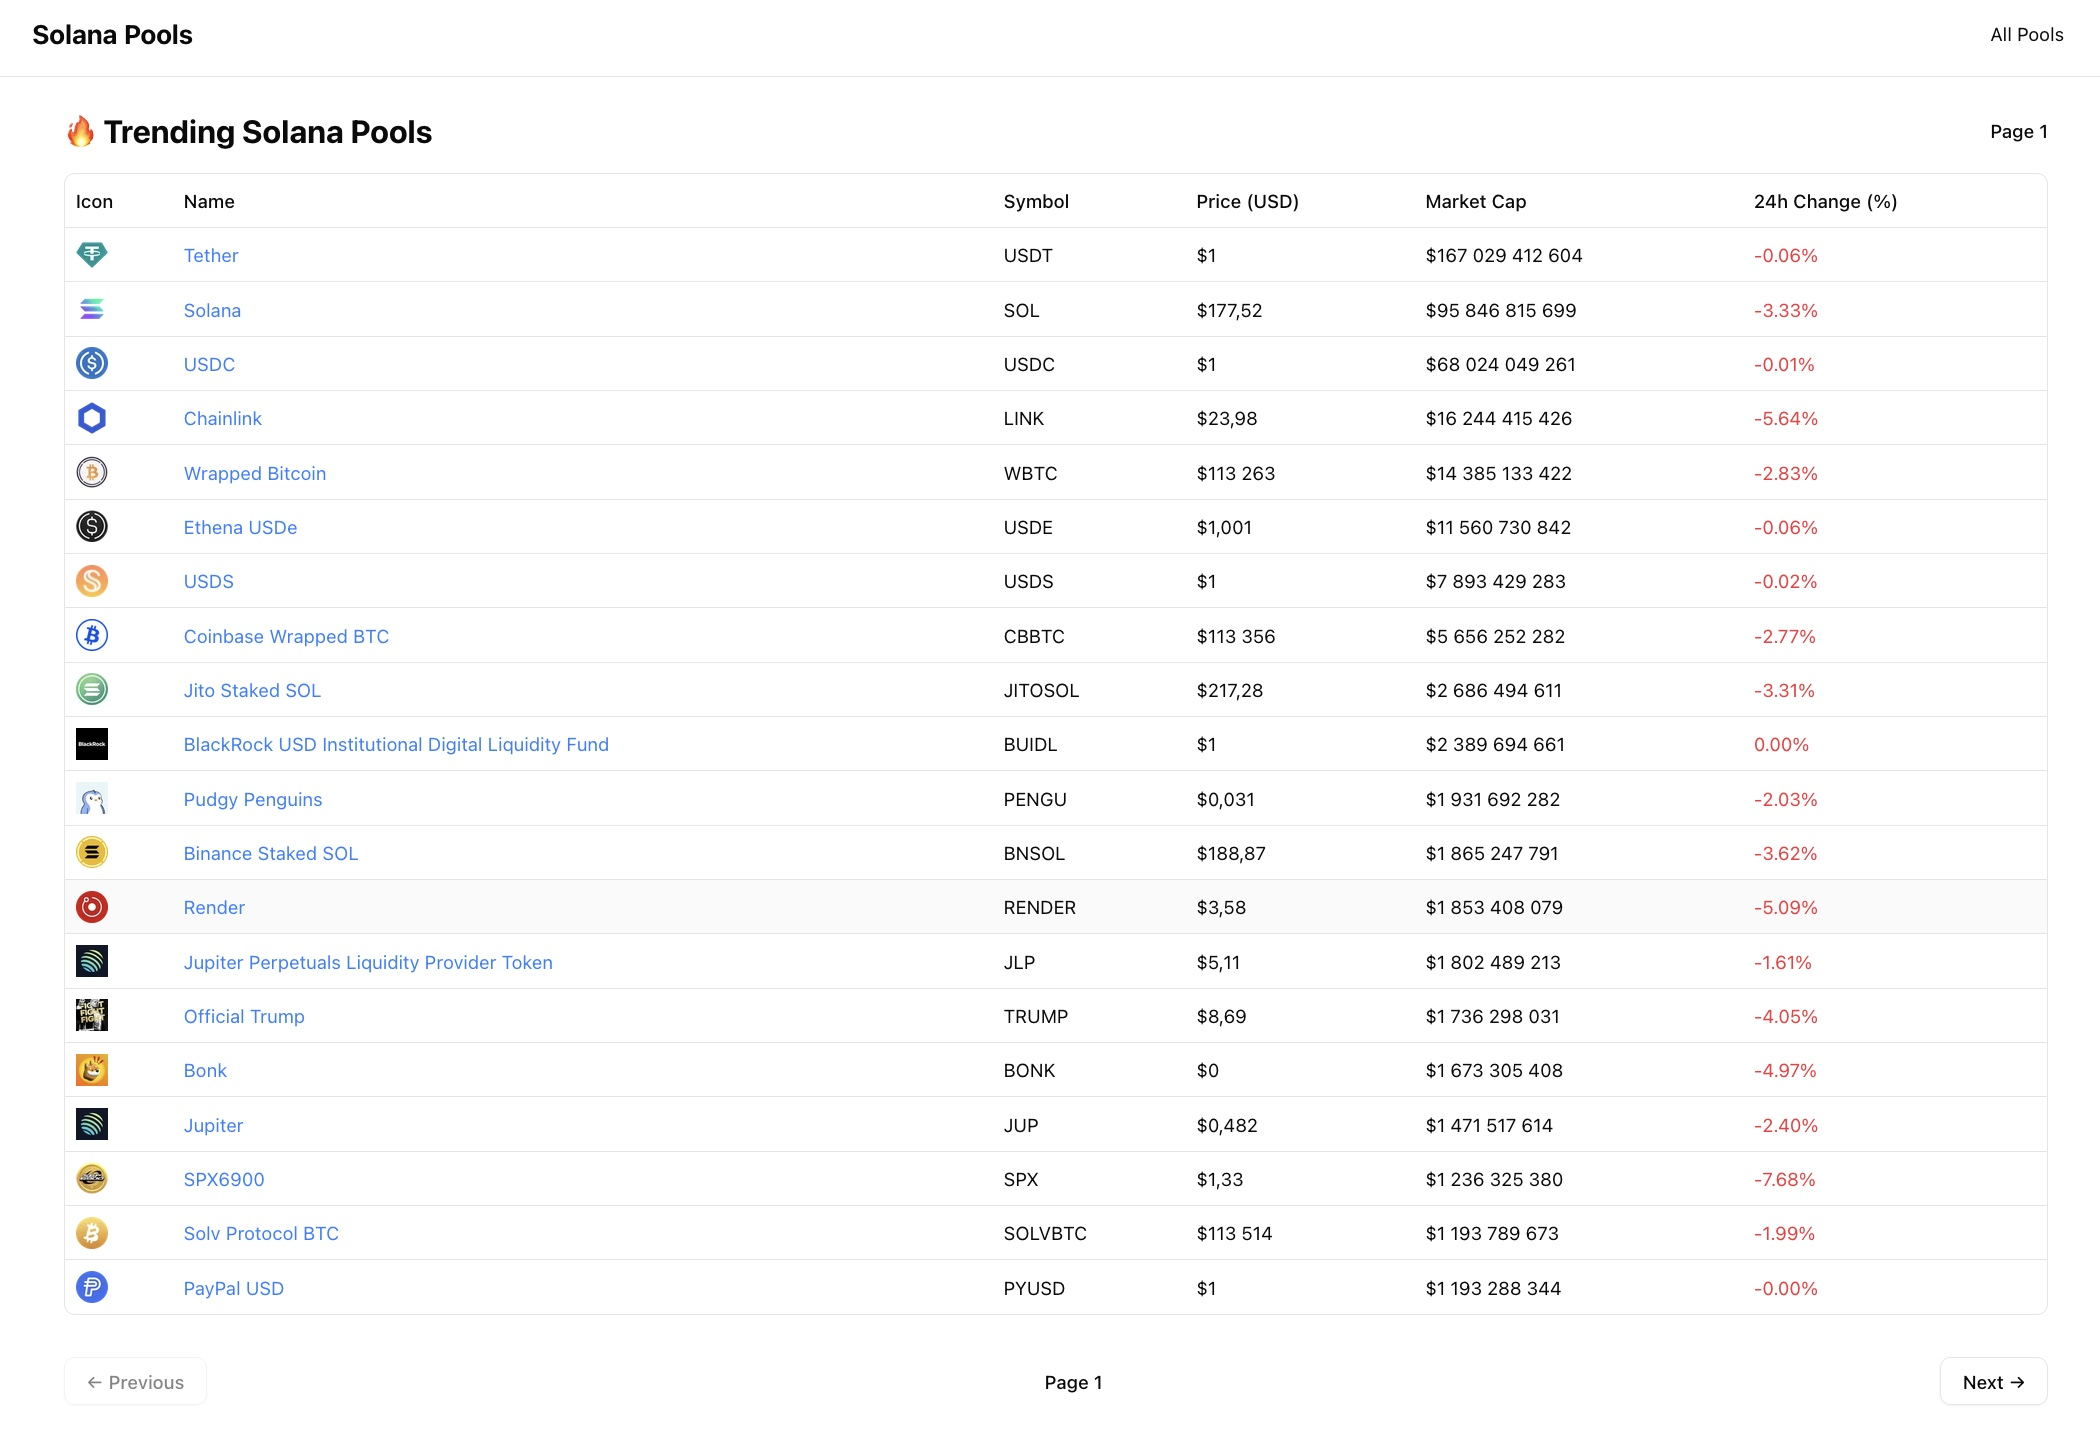
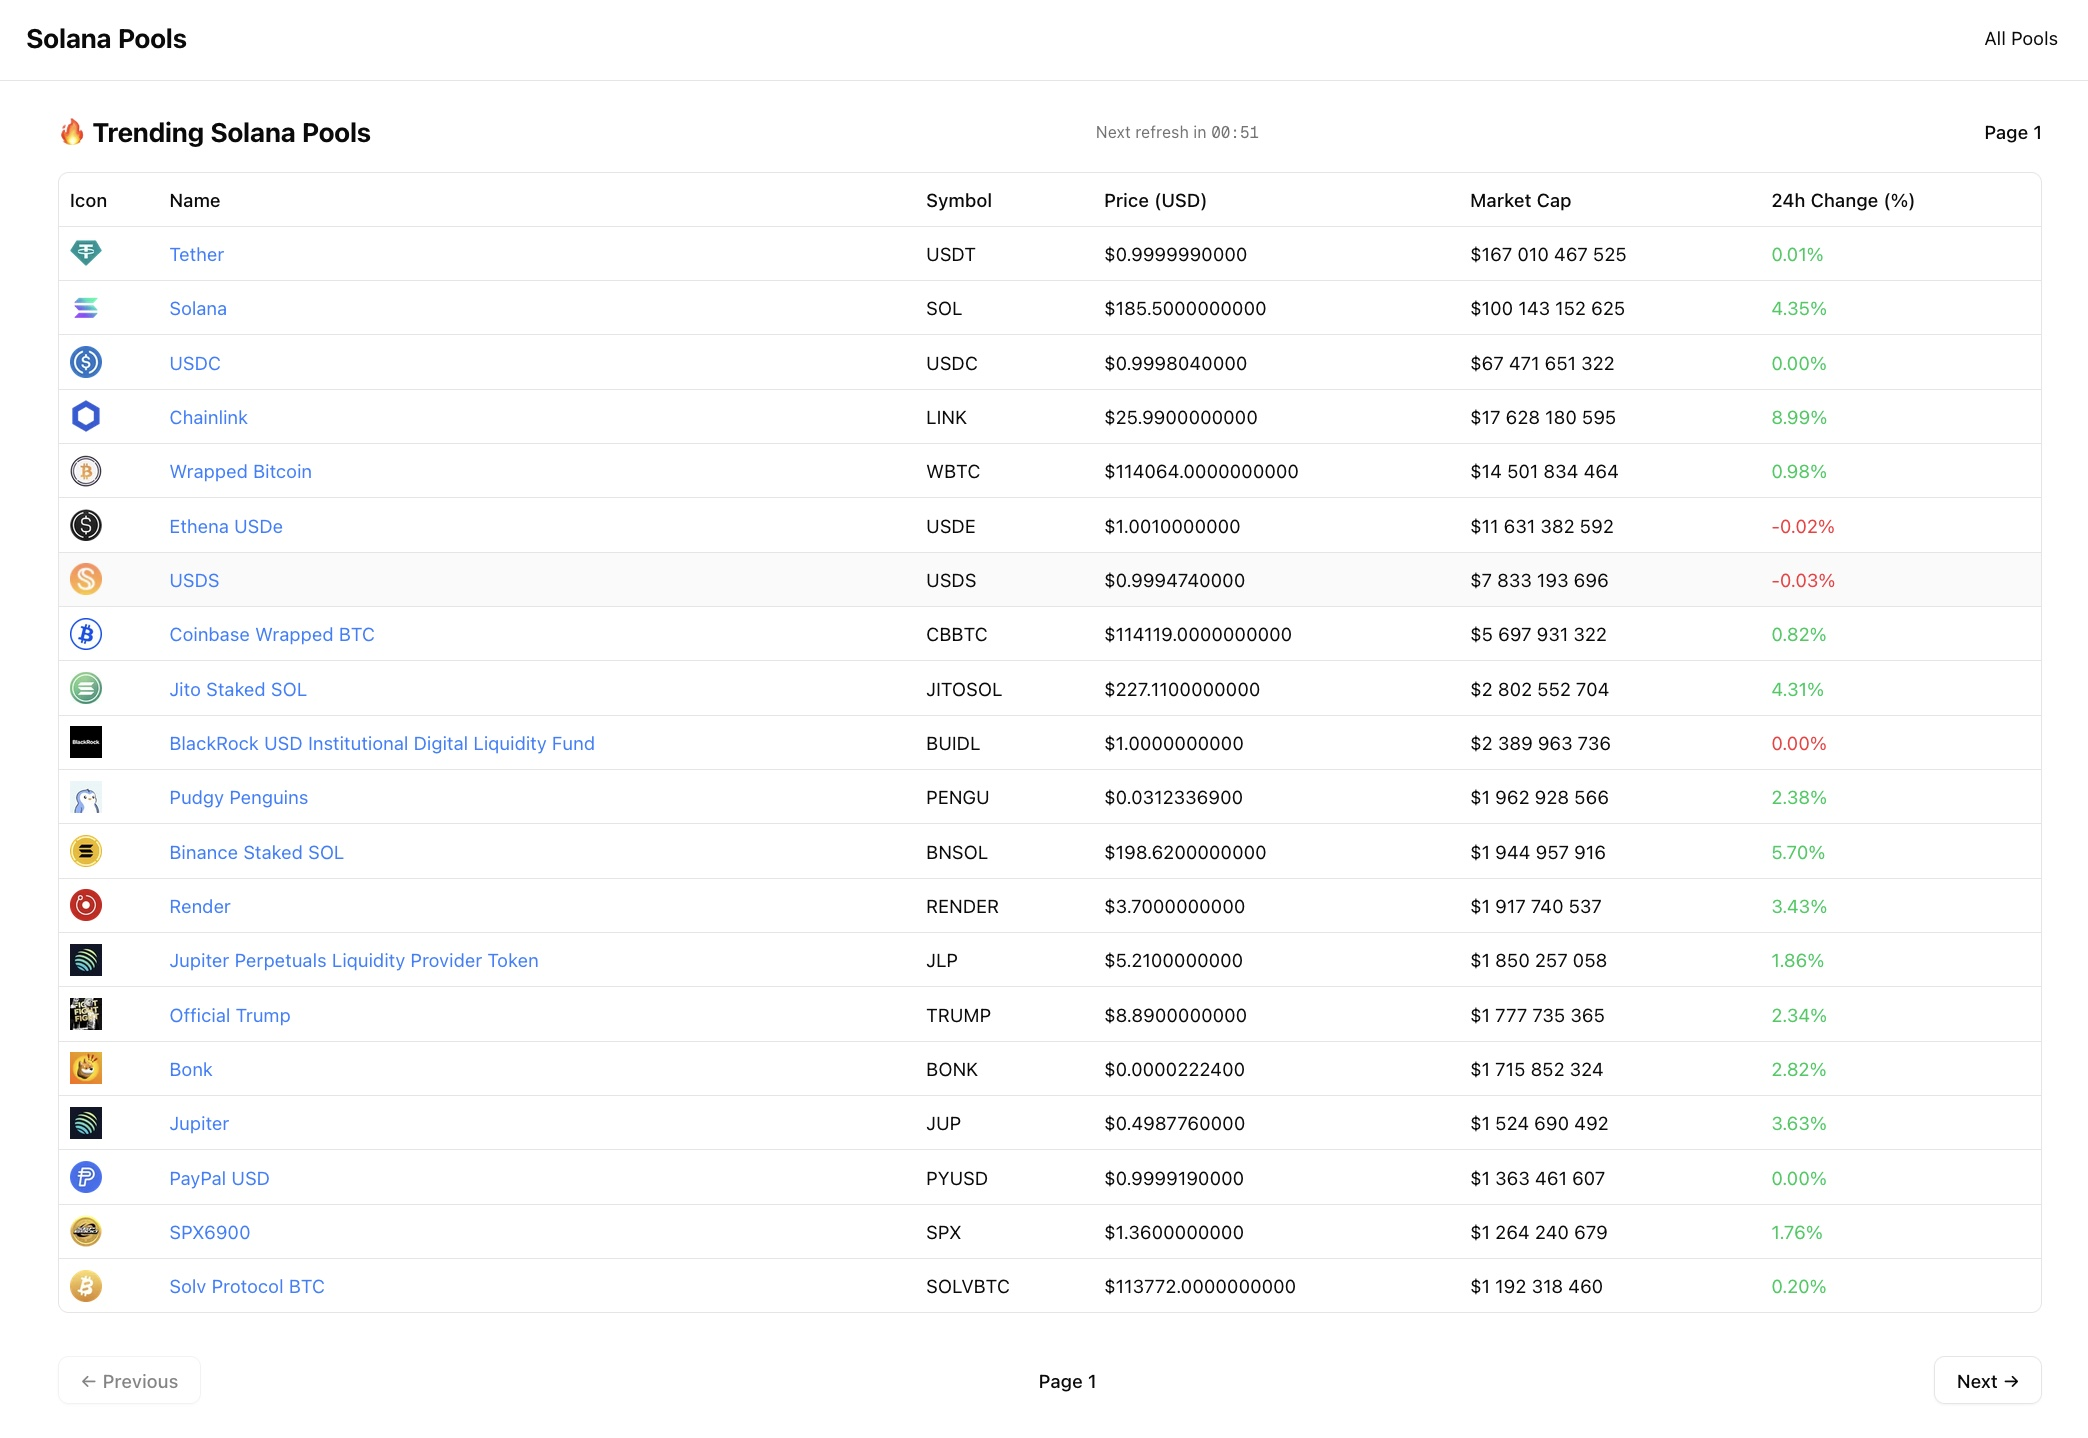
add refresh countdown timer and docs

diff --git a/app/page.tsx b/app/page.tsx
@@ -3,8 +3,11 @@
 import { columns, Token } from "@/components/columns"
 import { TokensTable } from "@/components/tokens-table"
 import { Button } from "@/components/ui/button"
+import axios from "axios"
 import { Loader2 } from "lucide-react"
 import { useEffect, useRef, useState } from "react"
+
+const REFRESH_MS = 60_000
 
 export default function HomePage() {
   const [tokens, setTokens] = useState<Token[]>([])
@@ -12,12 +15,13 @@ export default function HomePage() {
   const [loading, setLoading] = useState(false)
   const [error, setError] = useState<string | null>(null)
   const firstLoad = useRef(true)
+  const [nextRefreshAt, setNextRefreshAt] = useState<number | null>(null)
+  const [secondsLeft, setSecondsLeft] = useState<number>(60)
 
   const fetchTokens = async (pageNumber: number) => {
     setLoading(true)
     try {
-      const res = await fetch(`/api/tokens?page=${pageNumber}`)
-      const data = await res.json()
+      const { data } = await axios.get<Token[]>("/api/tokens", { params: { page: pageNumber } })
       setTokens(data)
     } catch (err) {
       console.error("Error fetching tokens", err)
@@ -29,10 +33,31 @@ export default function HomePage() {
   }
 
   useEffect(() => {
-    fetchTokens(page)
-    const interval = setInterval(() => fetchTokens(page), 60000)
-    return () => clearInterval(interval)
+    const run = () => {
+      setNextRefreshAt(Date.now() + REFRESH_MS)
+      fetchTokens(page)
+    }
+
+    run() 
+    const intervalId = setInterval(run, REFRESH_MS)
+    return () => clearInterval(intervalId)
   }, [page])
+
+  useEffect(() => {
+    if (!nextRefreshAt) return
+    const id = setInterval(() => {
+      const diffMs = nextRefreshAt - Date.now()
+      const secs = Math.max(0, Math.ceil(diffMs / 1000))
+      setSecondsLeft(secs)
+    }, 1000)
+    return () => clearInterval(id)
+  }, [nextRefreshAt])
+
+  const formatSeconds = (s: number) => {
+    const mm = Math.floor(s / 60)
+    const ss = s % 60
+    return `${String(mm).padStart(2, "0")}:${String(ss).padStart(2, "0")}`
+  }
 
   if(error) {
     return (
@@ -45,8 +70,11 @@ export default function HomePage() {
 
   return (
     <main className="container mx-auto p-6 space-y-4">
-      <div className='flex items-center justify-between'>
-        <h1 className="text-2xl font-bold">🔥 Trending Solana Pools</h1>
+      <div className='flex items-center justify-between flex-col md:flex-row'>
+        <h1 className="text-xl font-bold">🔥 Trending Solana Pools</h1>
+          <p className="text-xs text-muted-foreground">
+            Next refresh in <span className="font-mono">{formatSeconds(secondsLeft)}</span>
+          </p>
         <span className="text-sm font-medium">Page {page}</span>
       </div>
       {loading && firstLoad.current ? (

diff --git a/app/token/[id]/page.tsx b/app/token/[id]/page.tsx
@@ -45,7 +45,7 @@ export default function TokenPage() {
   return (
     <main className="container mx-auto p-6">
       <div className="flex justify-center w-full">
-        <Card className="p-6 w-full max-w-xl">
+        <Card className="p-2 md:p-6 w-full max-w-xl">
           <CardHeader className="flex items-center space-x-4">
             {coin.image?.large && (
               <Image

diff --git a/app/api/tokens/token/route.ts b/app/api/tokens/token/route.ts
@@ -66,7 +66,6 @@ export async function GET(request: Request) {
       const radiumRes = await fetch(`https://api-v3.raydium.io/mint/price?mints=${mint}`)
       if (radiumRes.ok) {
         const {data} = await radiumRes.json()
-        console.log('data',data)
         if (data && data !== false) {
           raydiumInfo = data[mint] || null
         }

diff --git a/README.md b/README.md
@@ -1,6 +1,7 @@
 # Solana Pools — Next.js + shadcn/ui
 
 ![Demo](demo/img1.jpeg)
+![Demo](demo/img2.jpeg)
 
 A tiny app built with **Next.js (App Router)** and **shadcn/ui** that shows trending **Solana** pools and a dynamic **Token Pool** page.
 
@@ -11,10 +12,21 @@ A tiny app built with **Next.js (App Router)** and **shadcn/ui** that shows tren
 - **Trending Solana pools** from CoinGecko (≥ 20 rows)
 - **Token Pool page** with:
   - name, symbol, image, **total supply** (via Solana RPC)
-  - **price & market cap** (via Raydium API)
-- **Auto-refresh every 60s**
+  - **price & market cap** (via Raydium API — see https://api-v3.raydium.io/docs/)
+- **Auto-refresh every 60s** (home & token pages)
+- **Pagination** on the home page
+- **Visible 60s countdown timer** on the home page
 - Accessible UI with **shadcn/ui Data Table**
 - Type-safe with **TypeScript**
+
+---
+
+## Data Fetching & Architecture
+
+- **Home page (trending list):** classic **client-side fetch** using `axios` in a client component.
+- **Token page (details):** uses **SWR** (stale-while-revalidate) with a `refreshInterval` of 60s to keep data fresh.
+- **API proxying:** all frontend calls go through **internal Next.js API routes** (`/api/*`).  
+  External requests (CoinGecko, Raydium, Solana RPC) are made **server-side** to keep API keys in environment variables and **avoid exposing `NEXT_PUBLIC_*` keys** in the browser.
 
 ---
 
